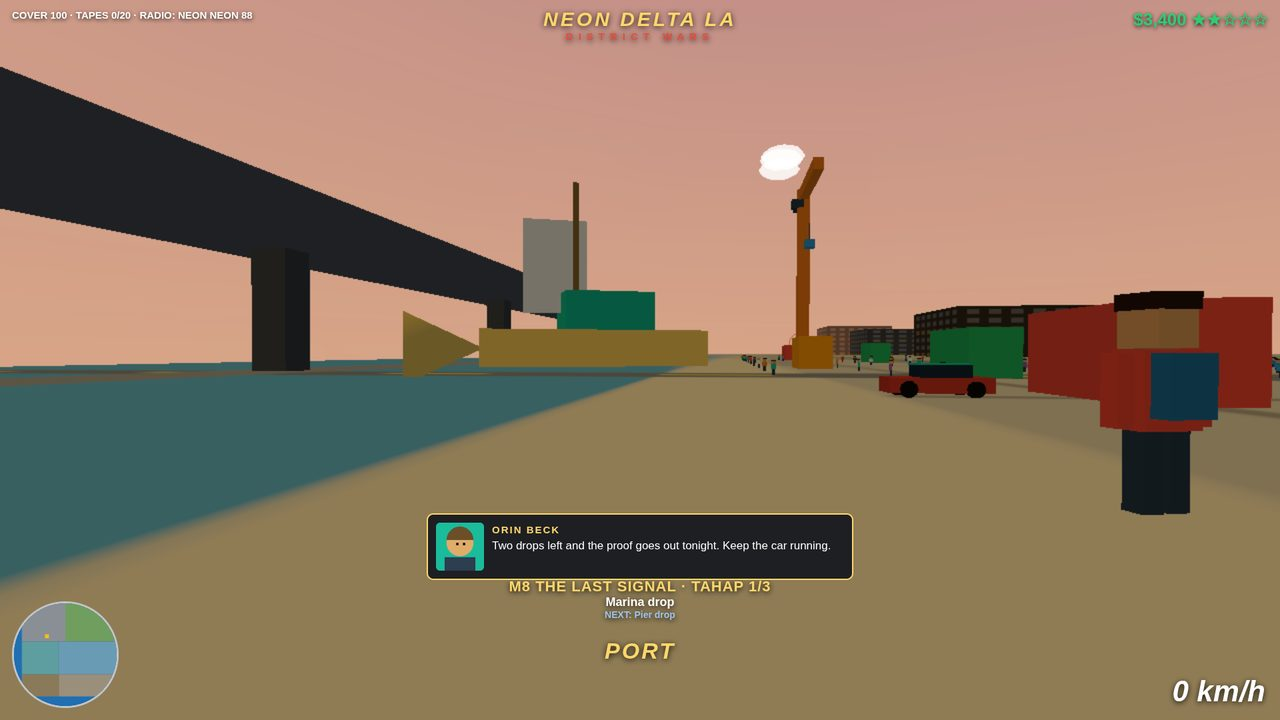
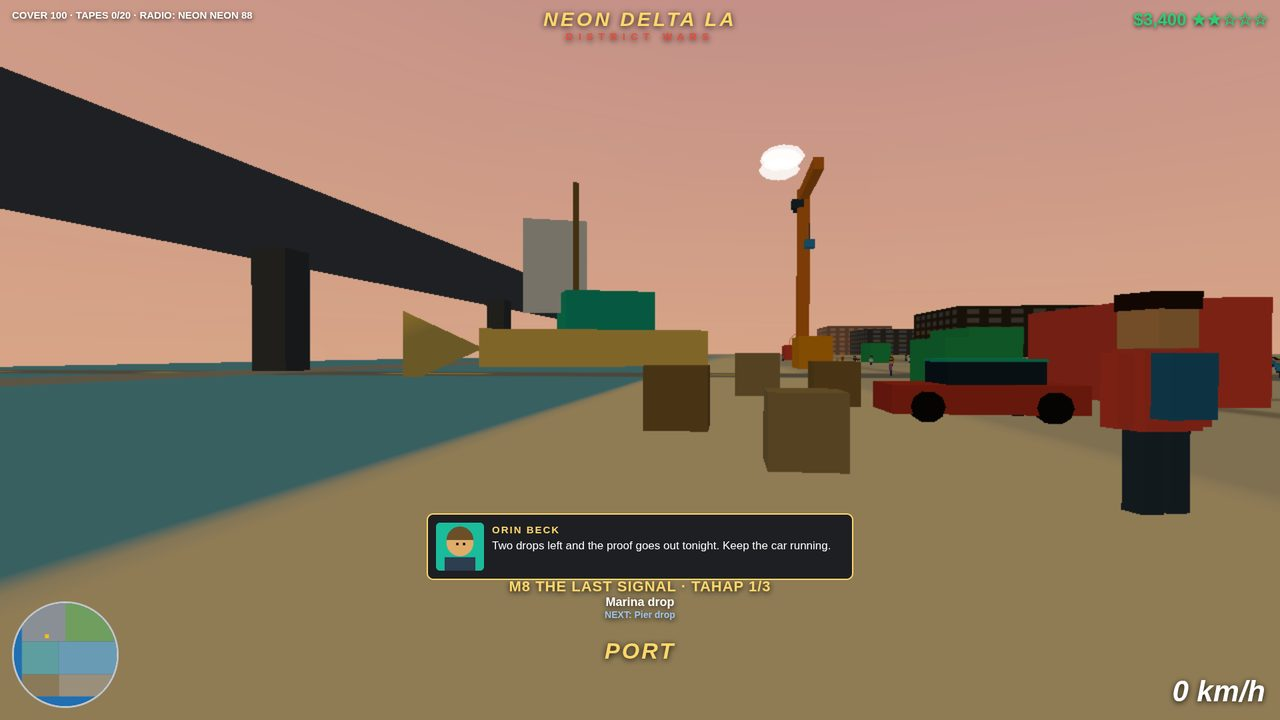
Round 8 v24: shrink shot-2 billboard, move shop door clear of Mara, break up shot-4 apron, bigger hero car

Changed region(s): [[0.5, 0.4583, 0.875, 0.6722]]

diff --git a/game/src/scene.js b/game/src/scene.js
@@ -480,11 +480,11 @@ export function createScene(container, world) {
   // DELTA ARMS shop: building, billboard, yellow door, bench, crates, tree.
   const shopG = new THREE.Group();
   const shopBase = box(60, 26, 30, 0, 0, 13, 0, new THREE.MeshLambertMaterial({ color: 0x2c3e50, map: winTex }));
-  const billboard = new THREE.Mesh(new THREE.PlaneGeometry(46, 14), new THREE.MeshBasicMaterial({ map: signTexture('NEON DELTA LA', 'DISTRICT WARS', '#c0392b', '#ffffff') }));
-  billboard.position.set(0, 28, 15.2);
+  const billboard = new THREE.Mesh(new THREE.PlaneGeometry(32, 10), new THREE.MeshBasicMaterial({ map: signTexture('NEON DELTA LA', 'DISTRICT WARS', '#c0392b', '#ffffff') }));
+  billboard.position.set(0, 25, 15.2);
   const frontSign = new THREE.Mesh(new THREE.PlaneGeometry(18, 5), new THREE.MeshBasicMaterial({ map: signTexture('DELTA ARMS', 'GUNS · AMMO · 4 TIERS', '#1a5276', '#ffffff') }));
   frontSign.position.set(-20, 10, 15.5);
-  const door = box(6, 12, 1, 0, -6, 6, 15.2, new THREE.MeshLambertMaterial({ color: 0xf1c40f }));
+  const door = box(6, 12, 1, 0, 8, 6, 15.2, new THREE.MeshLambertMaterial({ color: 0xf1c40f }));
   const bench = box(8, 1, 2, 0, 12, 1, 22, new THREE.MeshLambertMaterial({ color: 0x8a6d3b }));
   const benchLeg1 = box(0.6, 1, 1.8, 0, 9, 0.5, 22, new THREE.MeshLambertMaterial({ color: 0x333333 }));
   const benchLeg2 = box(0.6, 1, 1.8, 0, 15, 0.5, 22, new THREE.MeshLambertMaterial({ color: 0x333333 }));
@@ -562,6 +562,17 @@ export function createScene(container, world) {
     const cont = box(14, 6, 6, 0, cx, 3, cz, new THREE.MeshLambertMaterial({ color: cc }));
     scene.add(cont);
   }
+  // Foreground dressing for the shot-4 camera: crates and a small
+  // container on the dock apron, breaking up the flat concrete in the
+  // lower frame. All on land, clear of the hero car, Mara and the boat.
+  const apronCrate1 = box(2.5, 2.5, 2.5, 0, 608, 1.25, 620, new THREE.MeshLambertMaterial({ color: 0x8a6d3b }));
+  const apronCrate2 = box(3, 3, 3, 0, 600, 1.5, 624, new THREE.MeshLambertMaterial({ color: 0xa08a5a }));
+  const apronBox = box(8, 4, 4, 0, 598, 2, 610, new THREE.MeshLambertMaterial({ color: 0x27ae60 }));
+  // Two small crates low in the frame, on the apron right in front of
+  // the camera, so the bottom third is not one flat surface.
+  const apronCrate3 = box(2, 2, 2, 0, 628, 1, 624, new THREE.MeshLambertMaterial({ color: 0xa08a5a }));
+  const apronCrate4 = box(2.5, 2.5, 2.5, 0, 620, 1.25, 628, new THREE.MeshLambertMaterial({ color: 0x8a6d3b }));
+  scene.add(apronCrate1, apronCrate2, apronBox, apronCrate3, apronCrate4);
   const crane = makeCrane();
   crane.position.set(CRANE.x, 0, CRANE.z);
   scene.add(crane);

diff --git a/game/src/shots.js b/game/src/shots.js
@@ -123,7 +123,7 @@ export const SHOTS = [
   {
     n: 4, name: 'port', hour: 18, mission: 8, wanted: 2, money: 3400, day: 8,
     mara: { x: SHOT4_MARA.x, z: SHOT4_MARA.z, scale: 2, angle: -1.28 },
-    car: { x: 600, z: 612, angle: 0, scale: 1.5 },
+    car: { x: 615, z: 615, angle: 0, scale: 1.8 },
     boat: { x: SHOT4_BOAT.x, z: SHOT4_BOAT.z, scale: 4, angle: 0.4 },
     camera: { x: SHOT4_CAMERA.x, y: SHOT4_CAMERA.y, z: SHOT4_CAMERA.z },
     look: { x: 560, y: 2, z: 638 },
